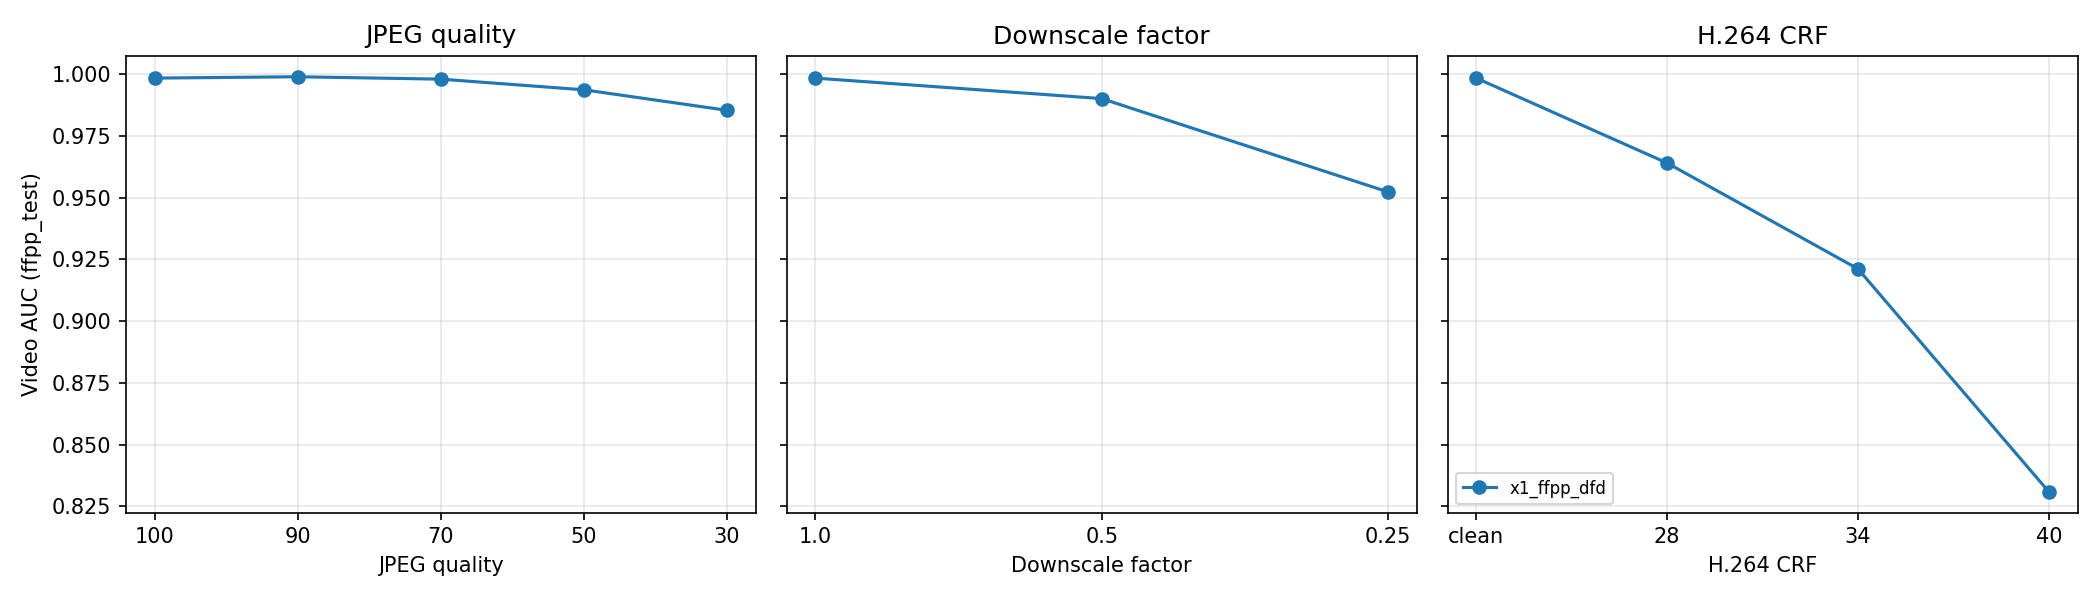
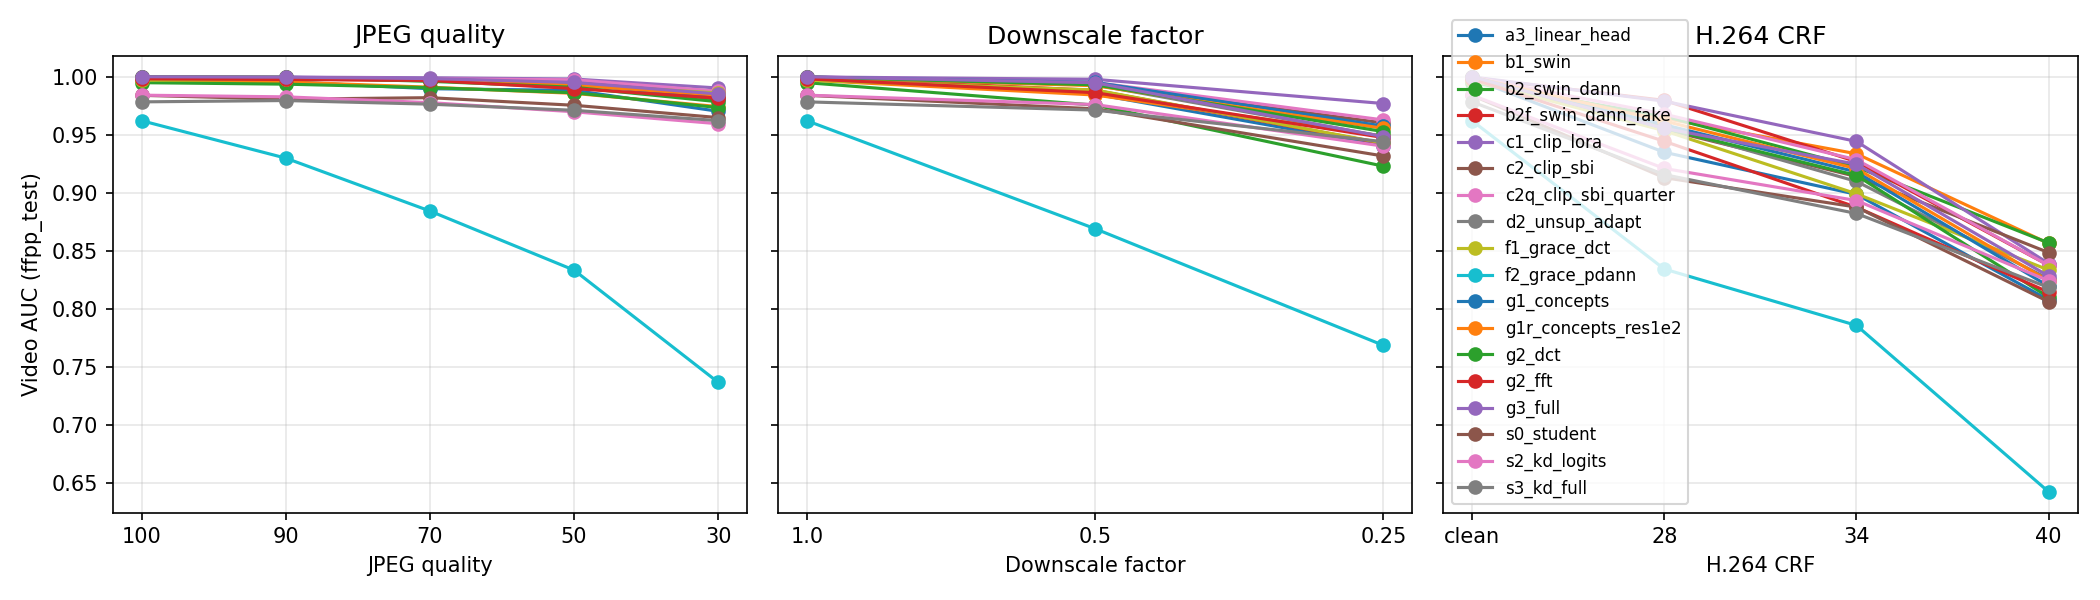
Final eval v5 (900 rows), tables/summary/release v5, X1 teacher cache; STATUS

diff --git a/STATUS.md b/STATUS.md
@@ -3,7 +3,7 @@
 ## Currently running
 
 - Queue runner: `scripts/start_queue.ps1` (detached; restart with `powershell -ExecutionPolicy Bypass -File scripts/start_queue.ps1`). State: `runs/_queue/state.json`, logs: `runs/_queue/<job>.log`, heartbeat: `runs/_queue/heartbeat.txt`.
-- GPU job: `final_eval_all_v5` (started 05:21), then `make_tables_v5`, then the S3x extension: `teacher_cache_x1` and the student distilled from X1 (`s3x_kd_from_x1`, seeds 42/1/2). All runbook tasks are done; these are extra seeds and experiments.
+- GPU job: `s3x_kd_from_x1_s42` (started 06:23), then S3x seeds 1 and 2. All runbook tasks are done; these are extra seeds and experiments.
 - Watch live: `Get-Content runs\_queue\<job>.log -Wait -Tail 20` (queue: `runs\_queue\runner.log`).
 - B1 epoch time with the GPU to itself: ~4 min (198 img/s).
 
@@ -190,3 +190,4 @@ See `splits/counts.md` for the full table.
 - 2026-11-20 03:24 X1 robustness (`results/robustness_x1.csv`, 3 seeds, FF++/Celeb-DF only). Celeb-DF video AUC X1 vs F1 (3-seed means): clean 0.959/0.901, jpeg:30 0.951/0.910, down:0.25 0.953/0.920, h264:28 0.928/0.901, h264:34 0.850/0.826, h264:40 0.675/0.639. X1 leads at every degradation; strong H.264 (crf 40) still hurts both about equally (-0.26 to -0.28). Next: D2 seed 2.
 - 2026-11-20 05:21 D2 seed 2 done: FF++ 0.9979 / DFD 0.9512 / Celeb-DF 0.8637. **D2 over 3 seeds: DFD 0.951±0.002, Celeb-DF 0.871±0.006 vs F1 0.951±0.004 / 0.901±0.017**: same on DFD, about 0.03 lower on Celeb-DF, the target it adapted to. Concept share on Celeb-DF rises to 0.90-0.99 (the head leans on concepts there) without improving AUC. Next: final_eval_all_v5, make_tables_v5.
 - 2026-11-20 05:35 Queued S3x: the S3 recipe (FF++ + SBI student data, full KD) distilled from X1 seed 42 instead of F1, 3 seeds. Question: does X1's Celeb-DF gain (0.958 vs 0.901) reach a student that never sees DFD data? Teacher outputs go to a separate `cache/teacher_x1` (F1 cache untouched); `cache_teacher.py` gained `--out` and run-name `--teacher`. Caveat: DFD test is not fully held out for S3x (its teacher trained on DFD); Celeb-DF is the clean comparison.
+- 2026-11-20 06:23 final_eval_all_v5 (900 rows, every model at all its seeds) + make_tables_v5 (tables, summary, release) done. X1 teacher cache built in `cache/teacher_x1` (check: max |cached - fresh| logit 7.6e-06). S3x seed 42 started.

diff --git a/results/tables.md b/results/tables.md
@@ -21,7 +21,7 @@ Generated by `scripts/make_tables.py` from the run folders and `results/*.csv`. 
 | S0 student, no teacher | 0.984 ± 0.004 | 0.867 ± 0.022 | 0.817 ± 0.028 | 0.842 ± 0.025 |
 | S2 student, logit KD | 0.984 ± 0.006 | 0.859 ± 0.008 | 0.803 ± 0.005 | 0.831 ± 0.006 |
 | S3 student, full KD | 0.978 ± 0.005 | 0.844 ± 0.011 | 0.808 ± 0.021 | 0.826 ± 0.010 |
-| D2 G3 + unsupervised adaptation to Celeb-DF | 0.999 ± 0.000 | 0.951 ± 0.002 | 0.874 ± 0.001 | 0.913 ± 0.001 |
+| D2 G3 + unsupervised adaptation to Celeb-DF | 0.999 ± 0.001 | 0.951 ± 0.002 | 0.871 ± 0.005 | 0.911 ± 0.003 |
 | X1 G3 trained on FF++ + DFD (DFD not a test set) | 0.998 ± 0.001 | – | 0.959 ± 0.007 | – |
 
 ### Frame AUC
@@ -43,7 +43,7 @@ Generated by `scripts/make_tables.py` from the run folders and `results/*.csv`. 
 | S0 student, no teacher | 0.963 ± 0.002 | 0.821 ± 0.014 | 0.748 ± 0.021 | 0.785 ± 0.017 |
 | S2 student, logit KD | 0.963 ± 0.001 | 0.826 ± 0.005 | 0.738 ± 0.000 | 0.782 ± 0.002 |
 | S3 student, full KD | 0.960 ± 0.006 | 0.820 ± 0.007 | 0.748 ± 0.016 | 0.784 ± 0.006 |
-| D2 G3 + unsupervised adaptation to Celeb-DF | 0.987 ± 0.002 | 0.894 ± 0.001 | 0.786 ± 0.001 | 0.840 ± 0.000 |
+| D2 G3 + unsupervised adaptation to Celeb-DF | 0.985 ± 0.003 | 0.894 ± 0.001 | 0.780 ± 0.009 | 0.837 ± 0.005 |
 | X1 G3 trained on FF++ + DFD (DFD not a test set) | 0.986 ± 0.004 | – | 0.884 ± 0.012 | – |
 
 ## 2. Ablation (each row changes one thing from the row above)

diff --git a/results/summary.md b/results/summary.md
@@ -6,7 +6,7 @@
 - Unseen tests: DeepFakeDetection (DFD) and Celeb-DF v2; FF++ test for in-domain. Celeb-DF test mode: interim.
 - Metric: video AUC (mean fake probability over a video's crops); thresholds from FF++ validation only.
 - Models: Swin-B baseline (B1, B2 + DANN), CLIP ViT-L/14 + LoRA (C1), + self-blended images (C2), + concept bottleneck (G1), + frequency branch with gated fusion (G2 DCT / G2-fft), + DANN (G3); final teacher chosen on FF++ val between F1 (G2-DCT + residual 1e-2 + harder val selection) and F2 (F1 + DANN on patch features); EfficientNet-B0 students S0/S2/S3 distilled from the final teacher.
-- Hardware: one RTX 4500 Ada (24 GB); seeds 42, 1 and 2 for the final teacher (F1), B1 and all three students (S0, S2, S3); X1 three seeds, D2 two seeds; other models one seed (42). Numbers are seed means where more than one seed exists.
+- Hardware: one RTX 4500 Ada (24 GB); seeds 42, 1 and 2 for the final teacher (F1), B1 and all three students (S0, S2, S3); X1 and D2 three seeds; other models one seed (42). Numbers are seed means where more than one seed exists.
 
 ## Findings
 
